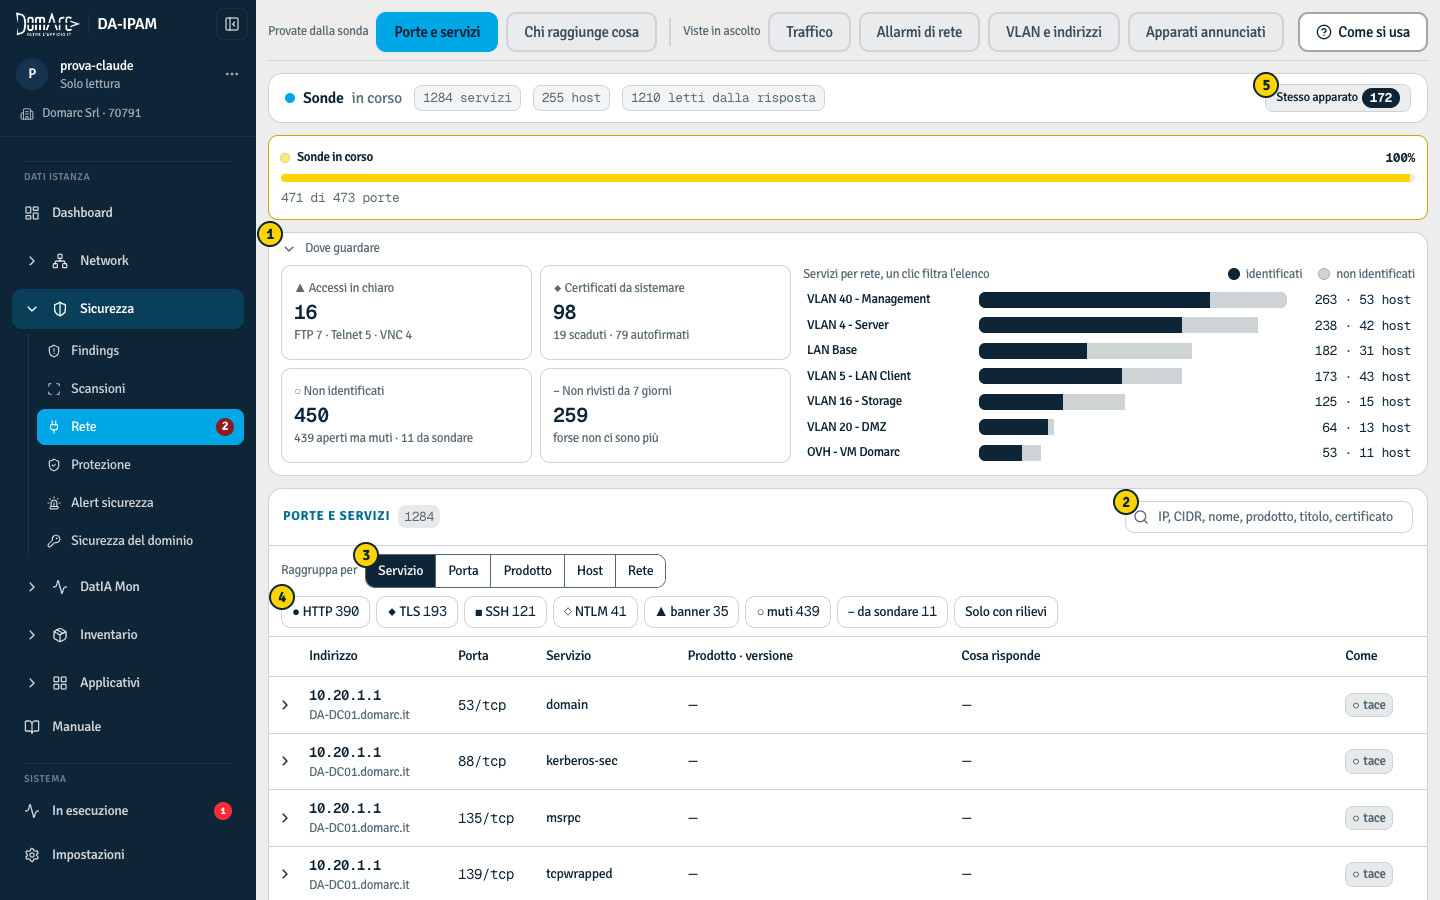
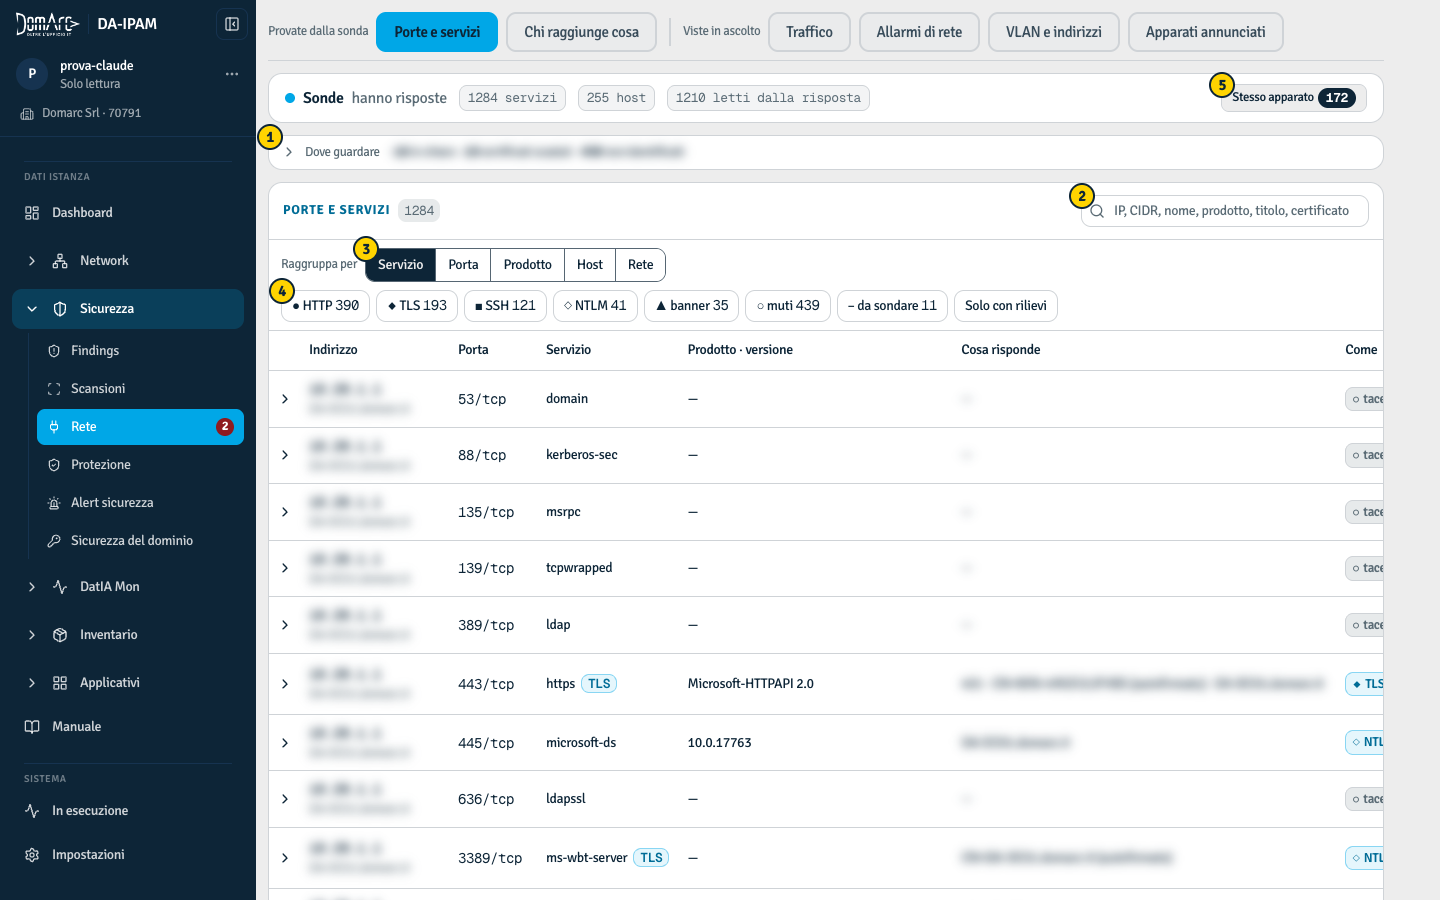
Manuale: schermate di Rete e Findings col «?» nuovo, totali delle debolezze sfocati
Le cinque pagine con la fila di schede mostravano ancora «Come si usa»; in Porte e servizi e Findings
la riga «Dove guardare» e le colonne con le risposte dei servizi dicevano le debolezze della rete
Domarc, che nel repo pubblico non vanno.

diff --git a/TASKS.md b/TASKS.md
@@ -5,9 +5,11 @@
 - [x] Formato della guida (`src/lib/manuale/formato.ts`), API `/api/manuale/pagina`, pulsante «?» nel guscio, àncore `{#parte}`
 - [x] Script delle schermate con IP/MAC/email/nomi PC finti (`scripts/manuale/schermate.cjs`); i nomi degli host restano (Riccardo, 26/11)
 - [x] Indice «Il prodotto», manuale unico in archivio, guida d'esempio «Apparati»
-- [ ] Guide di tutte le pagine (4 agenti per gruppo di menu); /protezione senza schermate, repo pubblico
-- [ ] Togliere `lib/guida/guide.ts` dopo averne portato i testi nelle guide; prova di copertura verde; rilascio su `dev`
-- [ ] Non verificato: il «?» non copre i pulsanti delle intestazioni a tutte le larghezze (guardato solo a 1440)
+- [x] 86 guide per tutte le pagine (4 agenti per gruppo di menu); /protezione senza schermate, repo pubblico
+- [x] `lib/guida/guide.ts` tolto, testi e àncore nelle guide; prova di copertura verde; v0.9.1364 su `dev`
+- [x] Il «?» guardato sull'IPAM 192.168.4.8 a 1920: in alto a destra, apre la guida della pagina
+- [ ] Rotta `POST /api/devices/dns` con guardia auth invece di admin: fa fallire `rotte-censite.test.ts` già su `origin/dev` (non di questo lavoro)
+- [ ] Rilievi degli agenti sulle pagine da valutare con Riccardo: termini inglesi (Patch Management, Dispositivi, Anomalie, «tombstone», «Network Changes»), `/zabbix/aggiungi` e `/client-config` senza collegamenti, pulsanti di scrittura attivi per la sola lettura, colonne che escono a 1440 (Cambiamenti, Tabella ARP)
 
 ## 2026-11-25 — Protezione delle installazioni: accessi chiusi, avvisi, esche (Riccardo, da approvare; zona rossa → livello completo)
 
